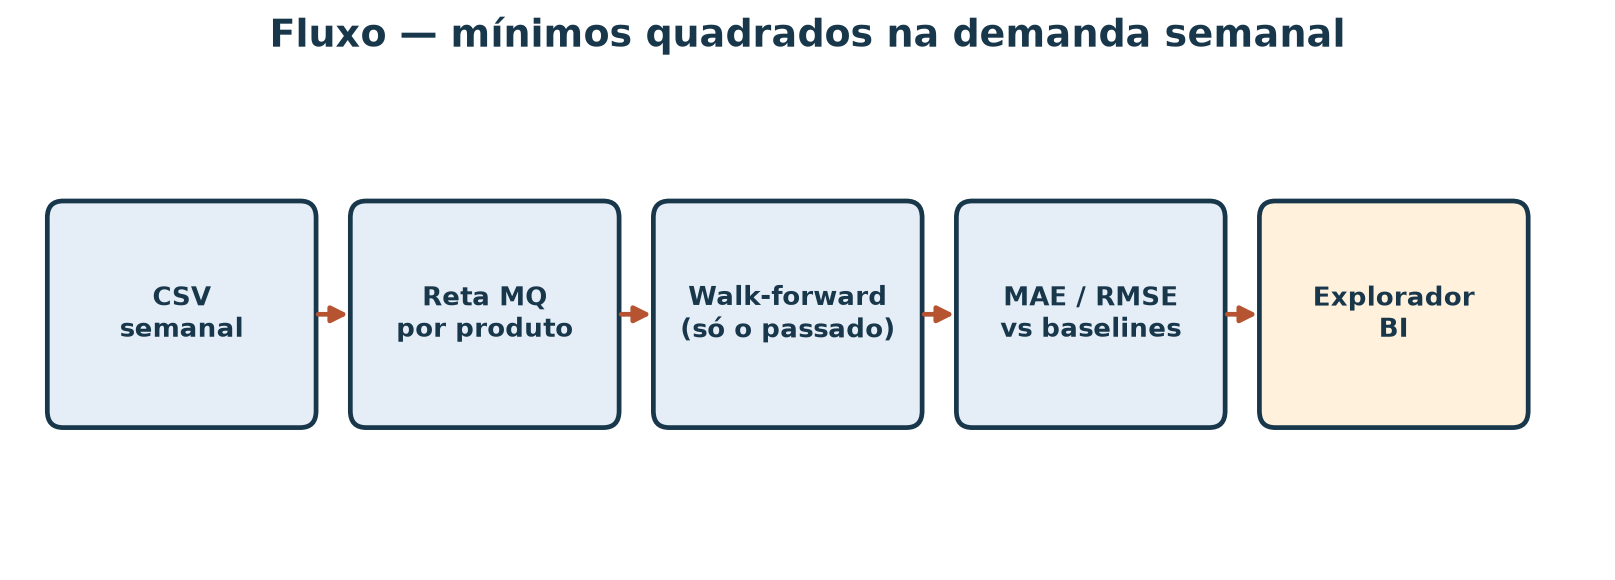
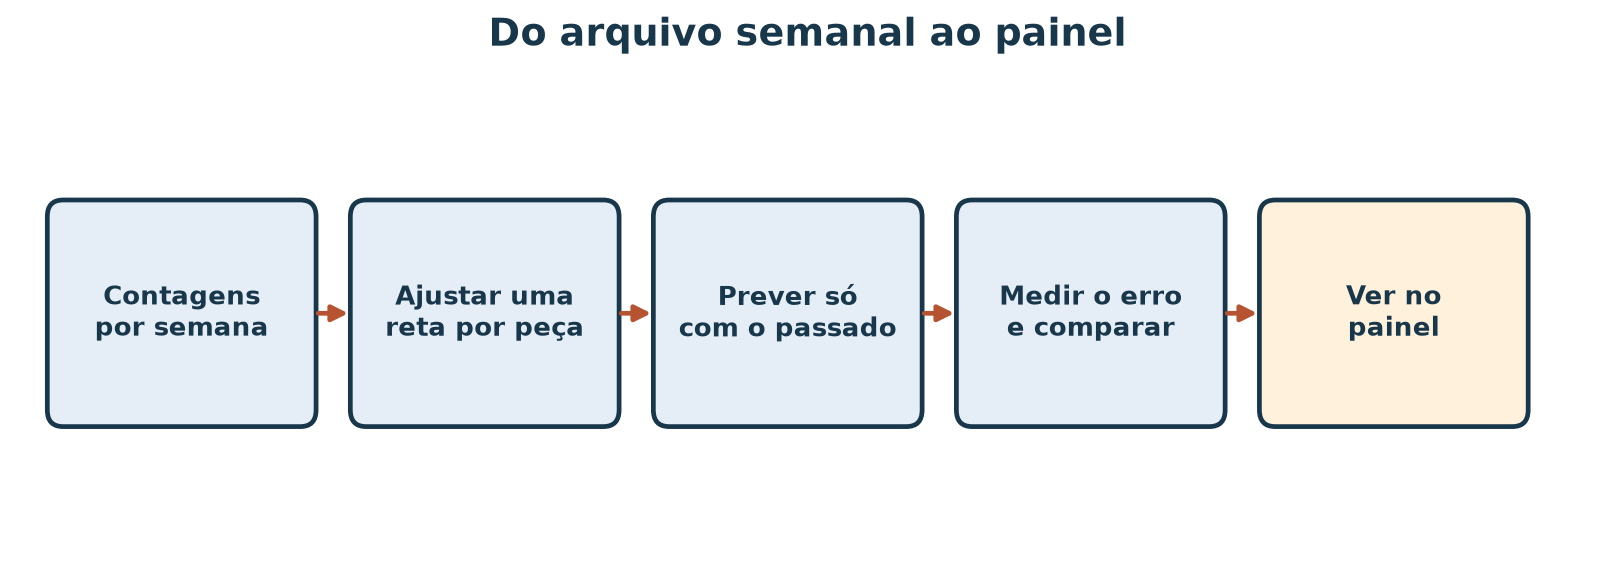
docs(material): plain-language opening flow for MQ tutorial
Replace early-diagram jargon (MQ, walk-forward, MAE/RMSE, BI) with the
story of counts, fit, past-only forecast, error, and panel.

diff --git a/material/tutorial-regressao-quadrados-minimos-demanda-20261017.md b/material/tutorial-regressao-quadrados-minimos-demanda-20261017.md
@@ -8,7 +8,7 @@ Ao concluir este tutorial, você deverá conseguir situar a regressão linear na
 história da medida e do aprendizado com dados, ajustar uma reta por **mínimos
 quadrados** à série semanal de um produto, extrapolar a semana seguinte com
 piso em zero quando preciso, e comparar o método com médias móveis e uma
-previsão ingênua no mesmo protocolo walk-forward da
+previsão ingênua no mesmo ritual de treinar só com o passado da
 [`média móvel`](tutorial-media-movel-demanda-20261017.md).
 
 Os dados são **sintéticos**: as 16 semanas distribuem os totais do catálogo e
@@ -35,10 +35,11 @@ O protocolo de avaliação continua temporal: treinar só com o passado, prever 
 próxima semana, só então incorporar o valor observado. O que muda é o **modelo**
 dentro desse ritual.
 
-![Fluxo CSV → reta MQ → walk-forward → métricas → BI.](imagens/fluxo-mq-demanda.png)
+![Do arquivo semanal ao painel: contagens, reta por peça, prever só com o passado, medir o erro, ver no painel.](imagens/fluxo-mq-demanda.png)
 
-*Figura 0 — Do arquivo semanal ao painel: a reta é o modelo; o walk-forward é o
-ritual de avaliação; o BI espelha os mesmos números.*
+*Figura 0 — Caminho desta aula: ler as contagens, ajustar uma reta por peça,
+prever a semana seguinte só com o que já fechou, medir o erro frente a outros
+métodos e conferir os mesmos números no painel.*
 
 ## 2. Da medida à previsão aprendida
 
